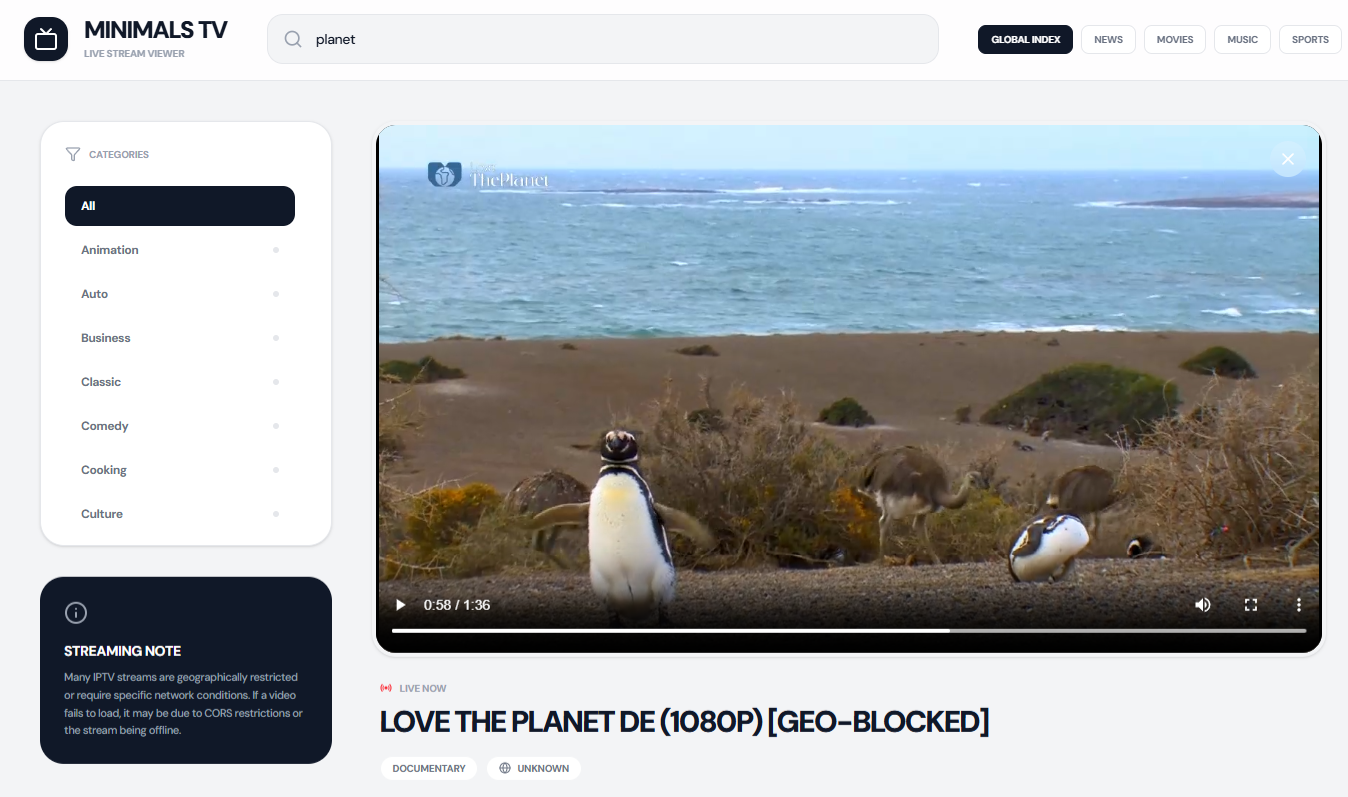
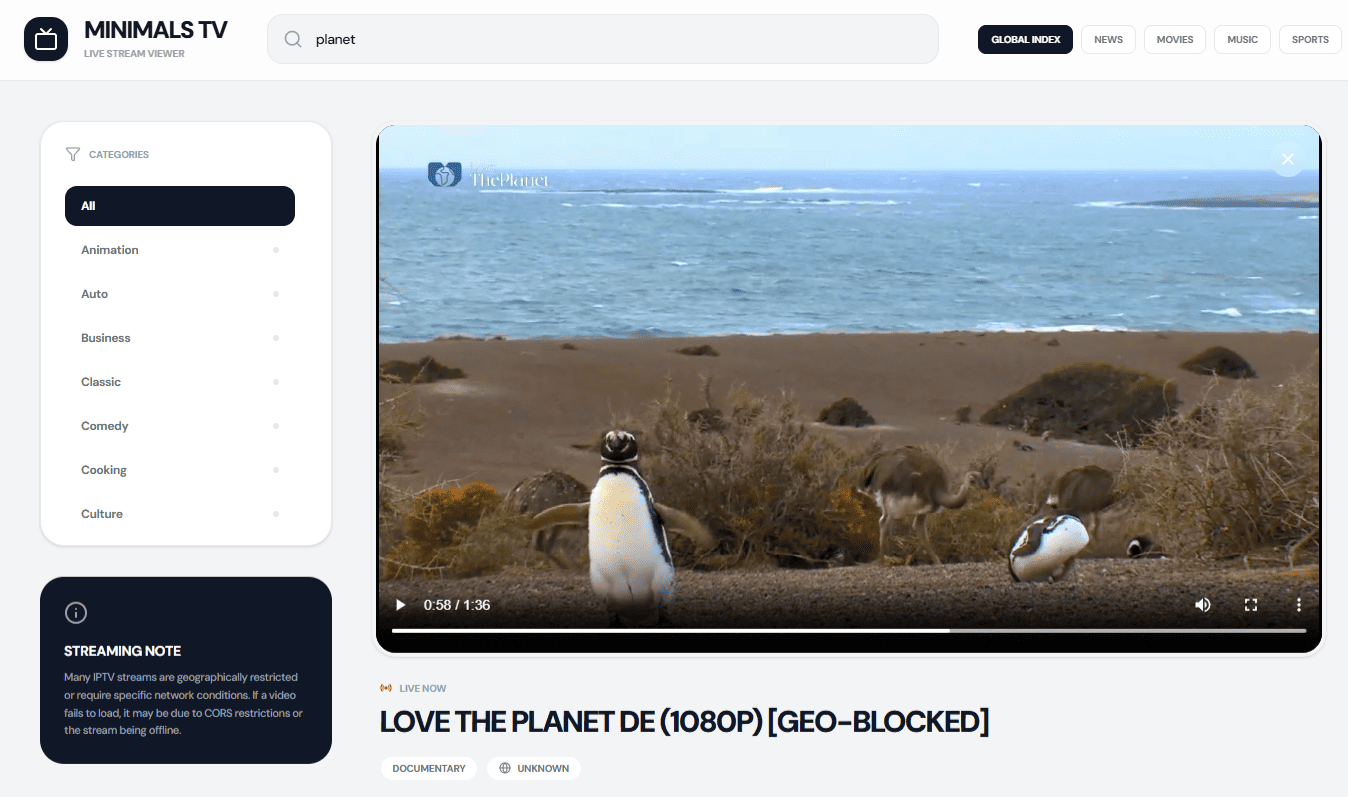
SEO Image

diff --git a/index.html b/index.html
@@ -35,6 +35,10 @@
   <meta property="og:description" content="Watch 39,000+ live TV channels worldwide for free with Dtv IPTV Viewer." />
   <meta property="og:url" content="https://thinakaranmanokaran.github.io/dtv/" />
   <meta property="og:image" content="https://thinakaranmanokaran.github.io/dtv/preview.png" />
+  <meta property="og:image:secure_url" content="https://thinakaranmanokaran.github.io/dtv/preview.png" />
+  <meta property="og:image:type" content="image/png" />
+  <meta property="og:image:width" content="1200" />
+  <meta property="og:image:height" content="630" />
 
   <!-- Twitter -->
   <meta name="twitter:card" content="summary_large_image" />
